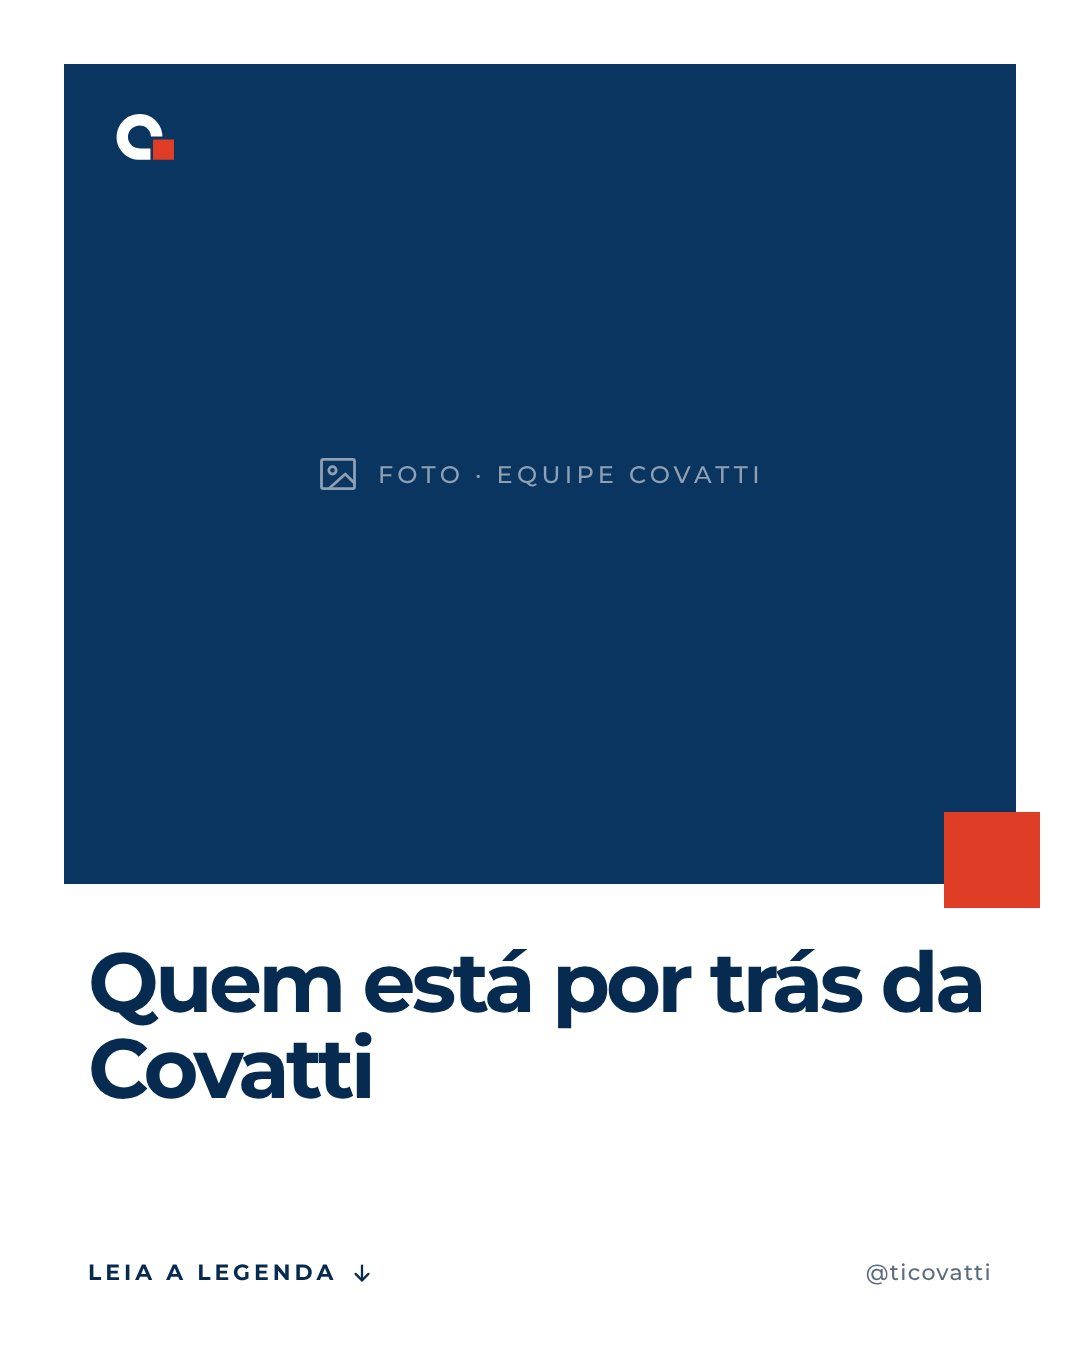
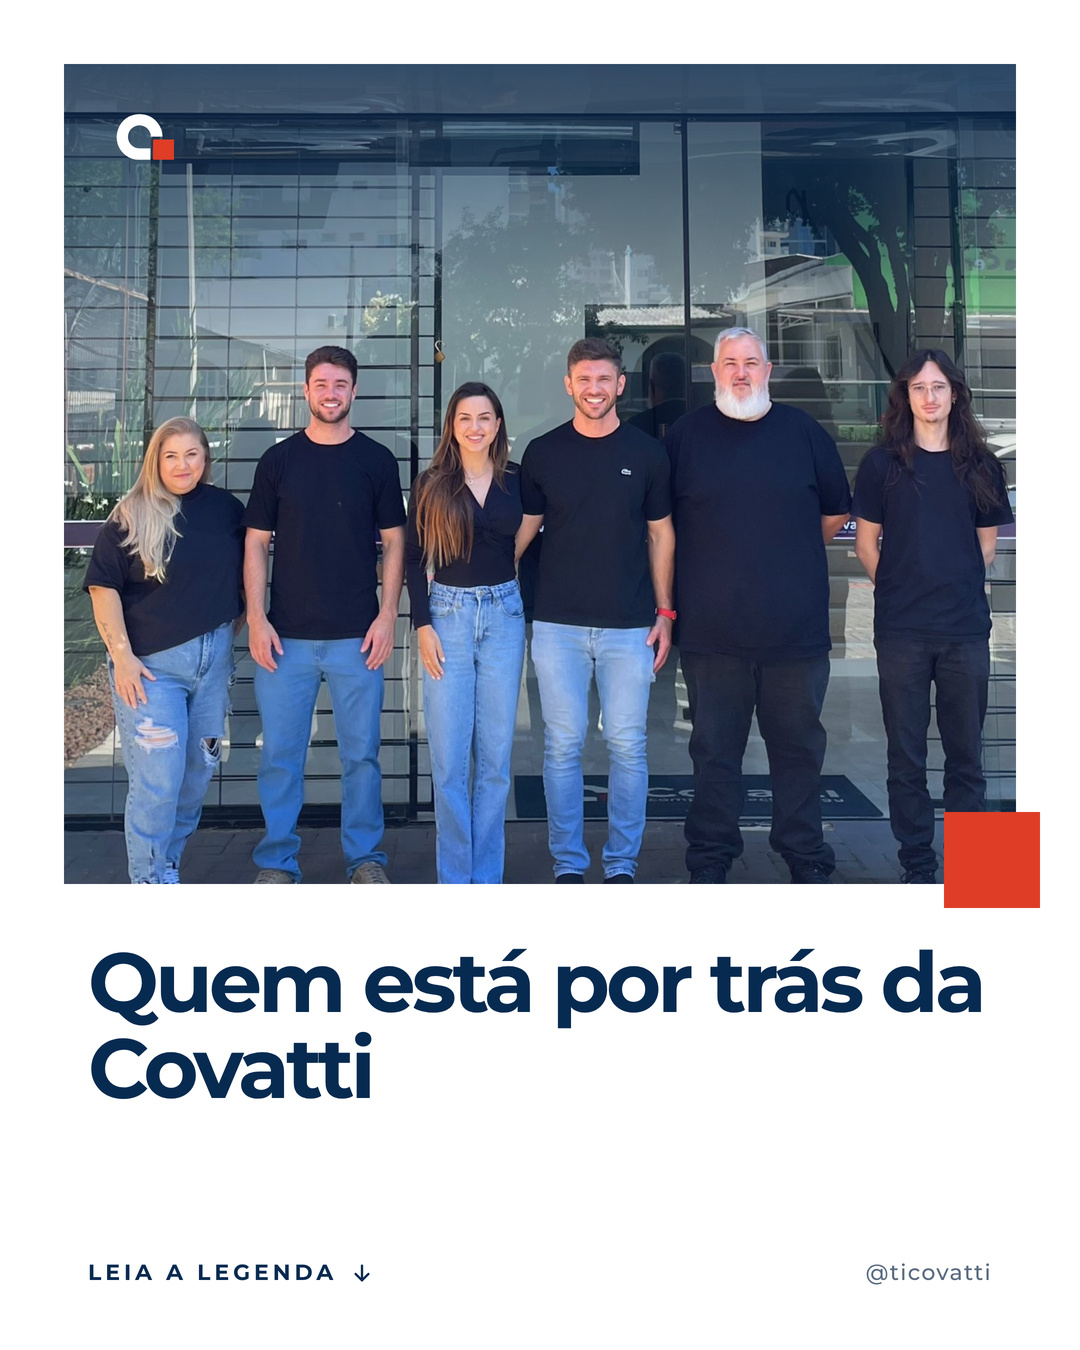
Add files via upload

diff --git a/novembro-2026/index.html b/novembro-2026/index.html
@@ -311,9 +311,8 @@ const CONTEUDO = [
     "rotulo": "Nossa equipe",
     "titulo": "Quem está por trás da Covatti",
     "formato": "Leia a legenda",
-    "legenda": "Por trás de cada rede funcionando, servidor no ar e backup em dia, tem gente. Essa é a equipe da Covatti.\n\n[Apresentar cada pessoa: nome, função e há quanto tempo está na Covatti]\n\nSão 12 anos atendendo empresas do Oeste catarinense. O que nos trouxe até aqui foi a forma de trabalhar: entender cada cliente antes de recomendar qualquer coisa e continuar por perto depois que tudo está instalado.\n\nQuando você chamar a Covatti, é com essas pessoas que vai falar. Manda um oi no direct.",
-    "imagem": "p07-1.jpg",
-    "pendente": "foto da equipe e trecho entre colchetes na legenda"
+    "legenda": "Por trás de cada rede funcionando, servidor no ar e backup em dia, tem gente. Essa é a equipe da Covatti.\n\nDesde 2014, atendemos empresas do Oeste catarinense. O que nos trouxe até aqui foi a forma de trabalhar: entender cada cliente antes de recomendar qualquer coisa e continuar por perto depois que tudo está instalado.\n\nQuando você chamar a Covatti, é com essas pessoas que vai falar. Manda um oi no direct.",
+    "imagem": "p07-1.jpg"
   },
   {
     "taskId": "1dfh60pfynr",
@@ -341,8 +340,7 @@ const CONTEUDO = [
     "titulo": "Planejamento de TI para 2027: por que fazer agora",
     "formato": "Leia a legenda",
     "legenda": "Fim de ano é quando a maioria das empresas fecha o orçamento do ano seguinte. E é comum a TI ficar de fora até que algo apresente problema. Aí a compra vira urgência, sem tempo de comparar nem de planejar.\n\nPor isso vale olhar para a tecnologia agora. Alguns pontos para colocar no planejamento de 2027:\n\n1. Equipamentos: quais computadores e notebooks já estão no limite e vão precisar de troca ao longo do ano?\n2. Licenças: quais softwares vencem em 2027, e estão todos regularizados?\n3. Segurança e backup: a empresa tem firewall e backup? Se não, isso entra como prioridade.\n4. Rede e Wi-Fi corporativo: a estrutura suporta o crescimento da equipe previsto para o ano?\n5. Suporte técnico: sua empresa tem uma equipe preparada para agir quando algum serviço ou equipamento deixa de funcionar?\n6. Controle de acesso digital (AD): controla quem acessa os computadores, sistemas e arquivos da empresa, definindo permissões individuais para cada funcionário.\n7. Controle de acesso físico (facial, biometria, TAG): gerencia quem pode entrar e sair das instalações, definindo permissões de acesso por horários e áreas restritas, com integração com o RH (controle de ponto).\n\nPlanejar a TI não significa simplesmente gastar mais. Significa investir melhor, reduzir riscos, evitar imprevistos e garantir que a tecnologia acompanhe o crescimento da empresa.\n\nA Covatti pode ajudar nesse planejamento. Avaliamos a infraestrutura atual da sua empresa e identificamos o que precisa de atenção imediata, o que pode ser planejado para depois e onde não há necessidade de novos investimentos.\n\nNão espere a tecnologia parar para começar a investir nela.\n\nQuer começar 2027 com a TI planejada? Chame no direct ou no WhatsApp e agende um diagnóstico.",
-    "imagem": "p09-1.jpg",
-    "pendente": "foto de fundo"
+    "imagem": "p09-1.jpg"
   }
 ];
 
